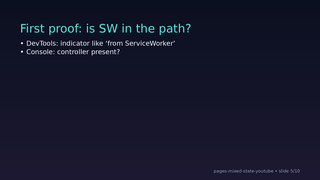
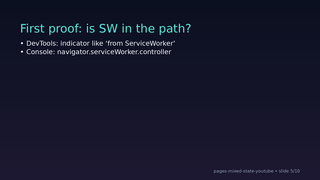
video7: add concrete SW proof + refresh renders/QC

Changed region(s): [[0.1562, 0.2778, 0.5312, 0.3056]]

diff --git a/script/VIDEO7_narration.md b/script/VIDEO7_narration.md
@@ -37,7 +37,8 @@ First, prove whether a service worker is involved.
 In DevTools, look for an indicator like “from ServiceWorker” on the request.
 Exact wording varies by browser.
 
-And in the Console, check whether the page is controlled by a service worker.
+And in the Console, check whether the page is controlled.
+For example, run `navigator.serviceWorker.controller` — if it’s non-null, a service worker is controlling this page.
 
 ## Slide 6 — CLI vs browser (important)
 This is an easy trap:
@@ -67,7 +68,8 @@ Same URL, different controller state — that’s your smoking gun.
 ## Slide 9 — Fix patterns (safer defaults)
 The fix depends on your app, but a few patterns help:
 
-Version the service-worker script so updates actually propagate.
+Make sure your service-worker script can actually update.
+Serving `sw.js` with `Cache-Control: no-cache` (or versioning its URL) helps avoid “stuck on old SW” behavior.
 
 Keep your HTML shell fresher than your hashed assets.
 And cache hashed assets aggressively.

diff --git a/docs/video7_youtube_metadata.md b/docs/video7_youtube_metadata.md
@@ -30,6 +30,8 @@ In this video we use a proof-first workflow:
 - Compare variants (with SW vs without)
 - Apply safer fix patterns
 
+Tip: if your service-worker script is cached too aggressively, updates can get ‘stuck’. Serving `sw.js` with `Cache-Control: no-cache` (or versioning its URL) often helps.
+
 ## Chapters (draft)
 
 Draft chapter timestamps based on the current slide timing (will change if timings change):
